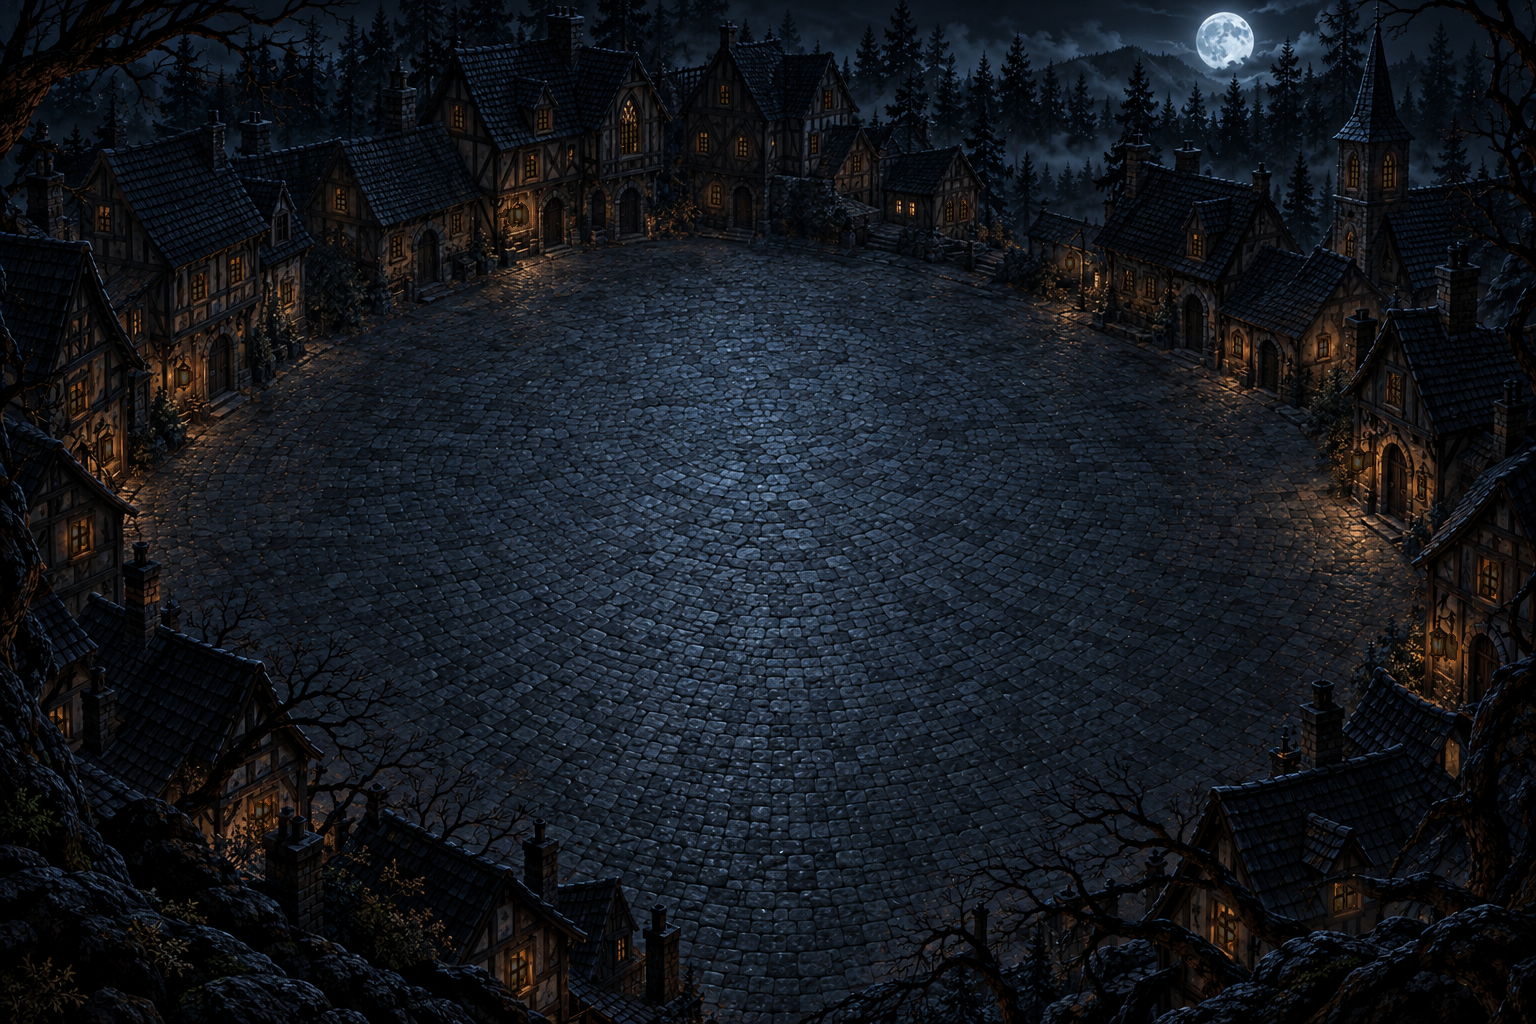
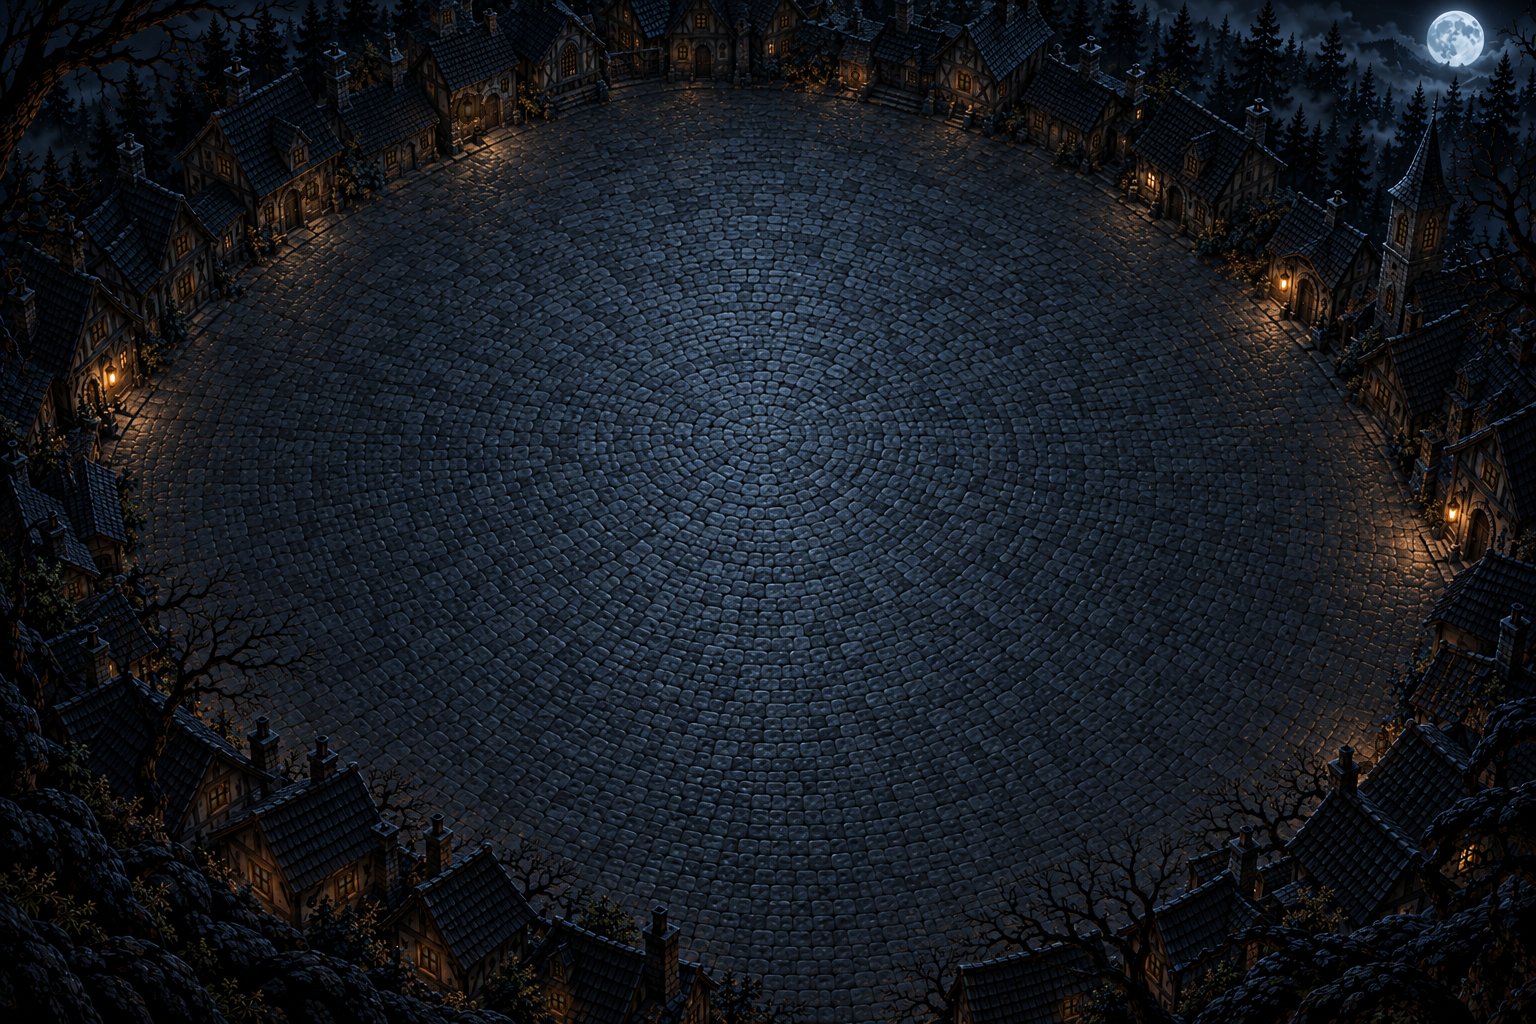
fix(visual): night background v2, visible window flicker

diff --git a/tools/build_night_windows.py b/tools/build_night_windows.py
@@ -4,7 +4,8 @@ Repeatable: run from the repository root
     python tools/build_night_windows.py [--source <png>] [--control <png>]
 Reads the AI-generated night scene (1536x1024) and writes
     godot/assets/night/bg/scene-night-base.webp     scene with the window islands darkened (additive light cannot darken)
-    godot/assets/night/bg/scene-night-windows.png   ID map, 8 bit gray: 0 = no window, 1..N = island id (lossless, no filtering)
+    godot/assets/night/bg/scene-night-windows.png   ID map, 8 bit RG: R = island id (0 = none, 1..N), G = 255 inside the island,
+                                                    1..254 = soft halo weight around it (lossless, no filtering)
     <control>                                       control image with numbered islands (not part of the repository)
 Islands are connected components of warm bright pixels; specks, oversize blobs and anything on the plaza (cobble glints) is dropped.
 Run `godot --path godot --import` afterwards so the new files get their .import sidecars.
@@ -18,18 +19,22 @@ from scipy import ndimage as ndi
 
 ROOT = os.path.abspath(os.path.join(os.path.dirname(__file__), ".."))
 OUT = ROOT + "/godot/assets/night/bg/"
-DEFAULT_SOURCE = "C:/Users/Marku/Downloads/Grimmhain-P1-Nachtentwurf/szene-nacht-v1.png"
+DEFAULT_SOURCE = "C:/Users/Marku/Downloads/Grimmhain-P1-Nachtentwurf/szene-nacht-v2.png"
 DEFAULT_CONTROL = "C:/Users/Marku/Downloads/Grimmhain-P1-Nachtentwurf/p4-atmosphaere/kontrolle-fenster.png"
 
-RED_MIN = 170          # warm bright pixels: red channel at least this
-WARM_MIN = 50          # and red minus blue at least this
+RED_MIN = 125          # warm bright pixels: red channel at least this
+WARM_MIN = 55          # and red minus blue at least this
 GREEN_MIN = 90
 CLOSE_ITERATIONS = 2   # bridges the window bars, so one window stays one island
-MIN_AREA = 30          # px, smaller blobs are sparks or reflections
+MIN_AREA = 22          # px, smaller blobs are sparks or reflections
+MIN_SOLIDITY = 0.4     # island area / bounding box area; sparse blobs are light spilled on the cobbles, not windows
 MAX_AREA = 2500        # px, larger blobs are no windows
 GROW = 2               # px, island margin so the glow covers the window frame edge
-PLAZA_CENTER = (768.0, 585.0)
-PLAZA_RADII = (600.0, 305.0)  # (rx, ry) of the cobbled plaza; islands whose center lies inside are glints, not windows
+PLAZA_CENTER = (780.0, 520.0)
+PLAZA_RADII = (625.0, 409.0)  # (rx, ry) of the cobbled plaza; islands whose center lies inside are glints, not windows
+EDGE_RADII = (672.0, 440.0)   # the plaza rim band between both ellipses: windows and lanterns sit there, dim lantern glints on the cobbles too
+EDGE_PEAK_MIN = 200           # in the rim band an island needs a bright core (red channel peak), else it is a glint
+HALO = 0.4             # halo width beyond the island edge, as a fraction of the island's longer side (about 1.8x window size in all)
 DIM = 0.3              # base image brightness inside islands; the shader adds it back (1 / DIM - 1) * flicker
 
 
@@ -44,7 +49,10 @@ def find_islands(rgb):
         area = len(xs)
         cx, cy = float(xs.mean()), float(ys.mean())
         inside = ((cx - PLAZA_CENTER[0]) / PLAZA_RADII[0]) ** 2 + ((cy - PLAZA_CENTER[1]) / PLAZA_RADII[1]) ** 2 < 1.0
-        if MIN_AREA <= area <= MAX_AREA and not inside:
+        edge = ((cx - PLAZA_CENTER[0]) / EDGE_RADII[0]) ** 2 + ((cy - PLAZA_CENTER[1]) / EDGE_RADII[1]) ** 2 < 1.0
+        solidity = area / float((xs.max() - xs.min() + 1) * (ys.max() - ys.min() + 1))
+        glint = solidity < MIN_SOLIDITY or edge and int(rgb[ys, xs, 0].max()) < EDGE_PEAK_MIN
+        if MIN_AREA <= area <= MAX_AREA and not inside and not glint:
             kept.append((index, cx, cy, area))
     return labels, kept
 
@@ -72,9 +80,19 @@ def main():
     base = rgb.astype(np.float32)
     inside = id_map > 0
     base[inside] *= DIM
+    # halo: every pixel near an island takes that island's id and a weight falling off smoothly to the halo radius
+    distance, (iy, ix) = ndi.distance_transform_edt(~inside, return_indices=True)
+    near = id_map[iy, ix]
+    radius = np.zeros(len(kept) + 1, np.float32)
+    for new_id in range(1, len(kept) + 1):
+        ys, xs = np.nonzero(id_map == new_id)
+        radius[new_id] = max(4.0, HALO * max(xs.max() - xs.min() + 1, ys.max() - ys.min() + 1))
+    weight = np.clip(1.0 - distance / radius[near], 0.0, 1.0) ** 2
+    halo = np.where(inside, 255, np.minimum(254, (weight * 254).astype(np.int32))).astype(np.uint8)
+    ids = np.where(halo > 0, near, 0).astype(np.uint8)
     os.makedirs(OUT, exist_ok=True)
     Image.fromarray(np.clip(base + 0.5, 0, 255).astype(np.uint8)).save(OUT + "scene-night-base.webp", lossless=True, quality=100, method=6)
-    Image.fromarray(id_map).save(OUT + "scene-night-windows.png", optimize=True)
+    Image.fromarray(np.dstack([ids, halo, np.zeros_like(ids)])).save(OUT + "scene-night-windows.png", optimize=True)
 
     control = image.copy()
     draw = ImageDraw.Draw(control)

diff --git a/docs/assets/ORIGIN-NOTES-NIGHT-BOARD.md b/docs/assets/ORIGIN-NOTES-NIGHT-BOARD.md
@@ -71,5 +71,5 @@ Bearbeitung: Zuschnitt und Magenta-Freistellung per Skript (`p2-mockup/tools/`).
 Reparierte Teile (`p2-mockup/parts/`) stammen aus den Mediendateien in „Grimmhain Assets“ (Nutzerangabe wie in Abschnitt 1) und sind mit eigenen Skripten bearbeitet. Das Zahnrad in `tab-options.png` ist selbst gezeichnet.
 
 ## 6. Nachtszene (P4 Atmosphäre)
-ChatGPT-Bildgenerierung durch Markus (Nutzerangabe, kein Herkunftsnachweis im Sinn des Registers): `szene-nacht-v1.png` (Downloads, 1536 x 1024, SHA-256 `e4b81626a7ef0523`). Status der abgeleiteten Laufzeitdateien: `intern-freigegeben`, Veröffentlichung gesperrt.
-Bearbeitung: `tools/build_night_windows.py` erkennt die Fensterinseln, dunkelt sie im Grundbild ab (`scene-night-base.webp`) und schreibt die ID-Karte (`scene-night-windows.png`). Das Ausgangsbild liegt nur im Übergabeordner. Sichere Mitte des 3:2-Bilds (Schnittmenge aus 4:3- und 16:10-Zuschnitt): x 256 bis 1280, y 32 bis 992.
+ChatGPT-Bildgenerierung durch Markus (Nutzerangabe, kein Herkunftsnachweis im Sinn des Registers): `szene-nacht-v2.png` (Downloads, 1536 x 1024, SHA-256 `9f20734a39fc9941`; v1 verworfen, Platz zu flach). Status der abgeleiteten Laufzeitdateien: `intern-freigegeben`, Veröffentlichung gesperrt.
+Bearbeitung: `tools/build_night_windows.py` erkennt die Fensterinseln, dunkelt sie im Grundbild ab (`scene-night-base.webp`) und schreibt die ID-Karte (`scene-night-windows.png`). Das Ausgangsbild liegt nur im Übergabeordner. Platzmitte im Bild bei etwa 50,8 % / 50,8 %; sie wird auf die Ringmitte gelegt.

diff --git a/PROGRESS.md b/PROGRESS.md
@@ -553,3 +553,6 @@ Branch `feature/visual-night-board`, lokal, kein Push. Nur Hintergrund, Licht un
 Neu: Nachtszene als Brett-Hintergrund (cover, zentriert), Fensterschein per ID-Karte und einem Shader (`night_backdrop.gdshader`, 47 Inseln, je Insel eigene Schwankung 85 bis 100 %, seltenes weiches Absacken), Nebelebene (`night_fog.gdshader`, 18 % am Rand, 40 % davon über dem Ring). Reduzierte Bewegung hält Schein und Nebel an. Keine Töne, keine Spiellogik.
 Wiederholbar: `python tools/build_night_windows.py` (erzeugt Grundbild, ID-Karte und Kontrollbild), danach `godot --path godot --import`. Herkunft: `docs/assets/ORIGIN-NOTES-NIGHT-BOARD.md` Abschnitt 6; die alte `village-night.webp` ist ungenutzt, aber nicht entfernt.
 Abnahme-Material: `Downloads/Grimmhain-P1-Nachtentwurf/p4-atmosphaere/` (Screenshots 24 Spieler in 3 Größen, Kontrollbild, Video 1024x768).
+
+## 2026-10-02: P4 Atmosphäre nachgebessert (Paket 1b)
+Nachtszene v2 (Platz größer), Platzmitte auf Ringmitte gelegt (cover mit 5 % Überdeckung, kein Rand). Fensterschein neu: 47 Inseln, Schwankung 55 bis 100 % (Periode 2 bis 6 s), seltenes weiches Absacken auf 30 %, Lichthof pro Fenster, alles in `night_backdrop.gdshader`; Nebel am Rand 25 %. Lehre: Beim Schreiben von Shadern mit Umlauten per Python `encoding="utf-8"` setzen, sonst Parse-Fehler und stilles Fehlen des Effekts (Log auf `ERROR` prüfen). Gemessen im Video: Fensterhelligkeit schwankt im Median um 32 % (max/min je Fenster), Vergleichsbild `p4-atmosphaere/flackern-vergleich.png`.
